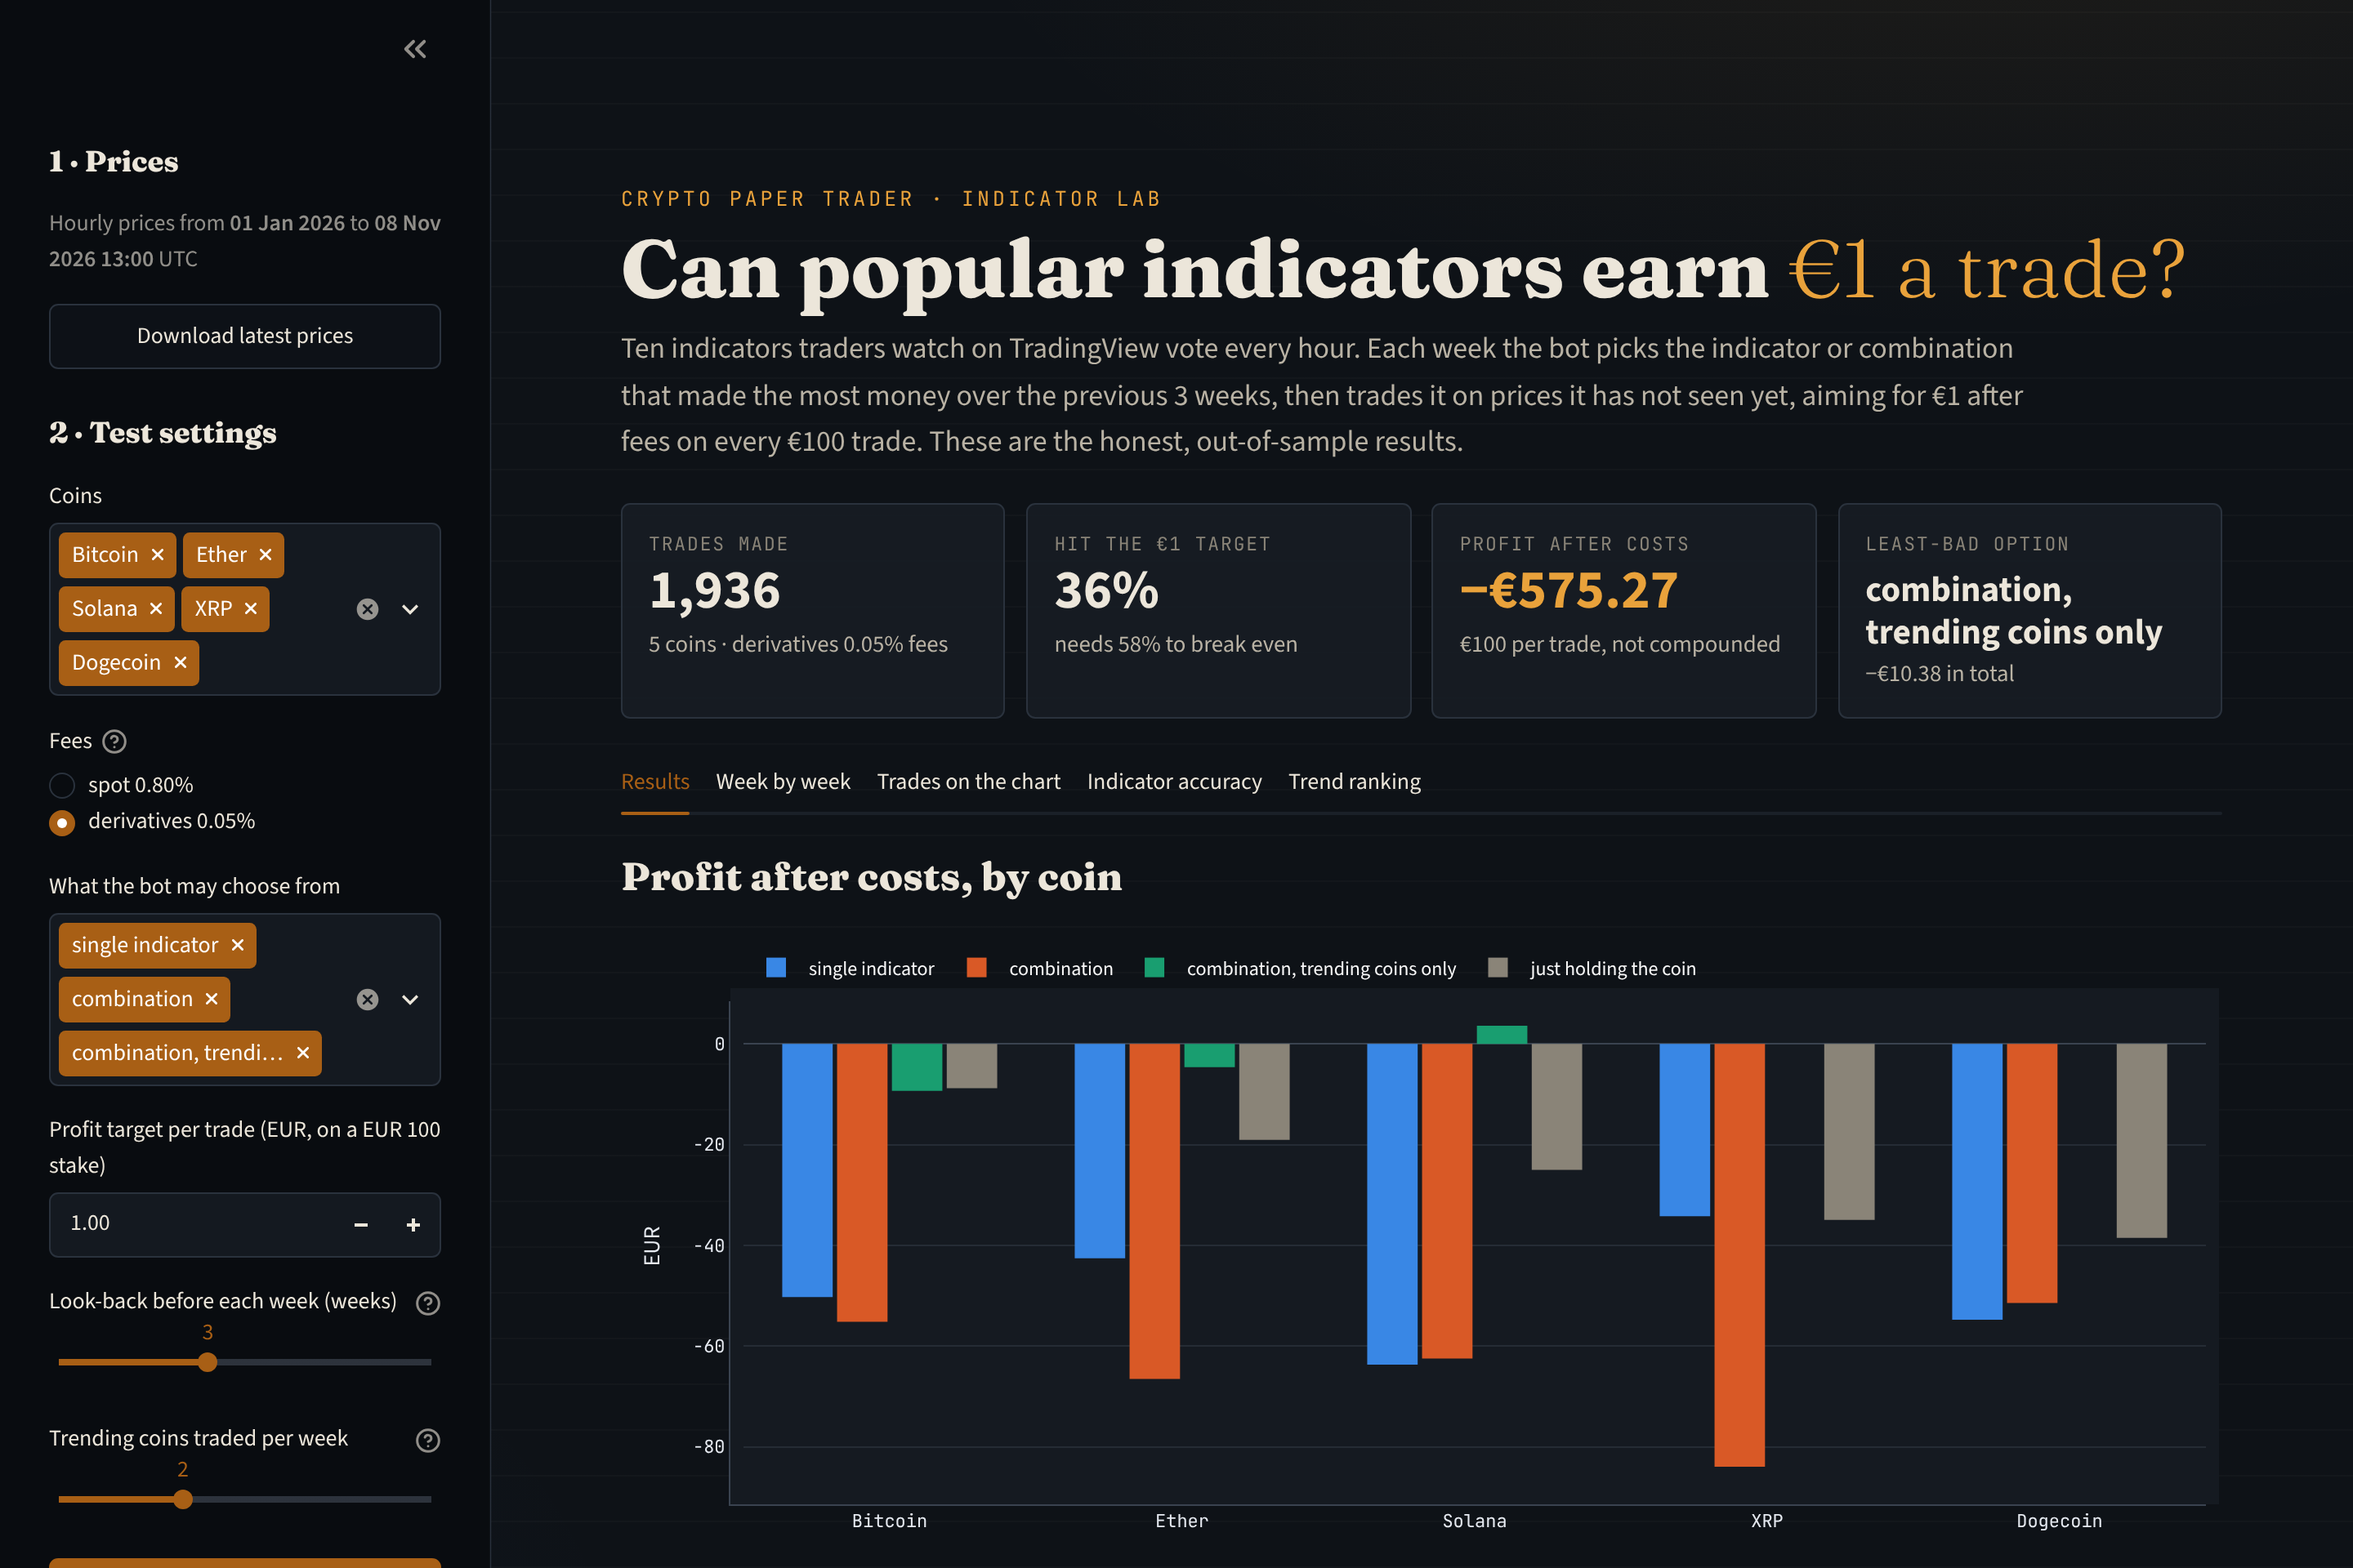
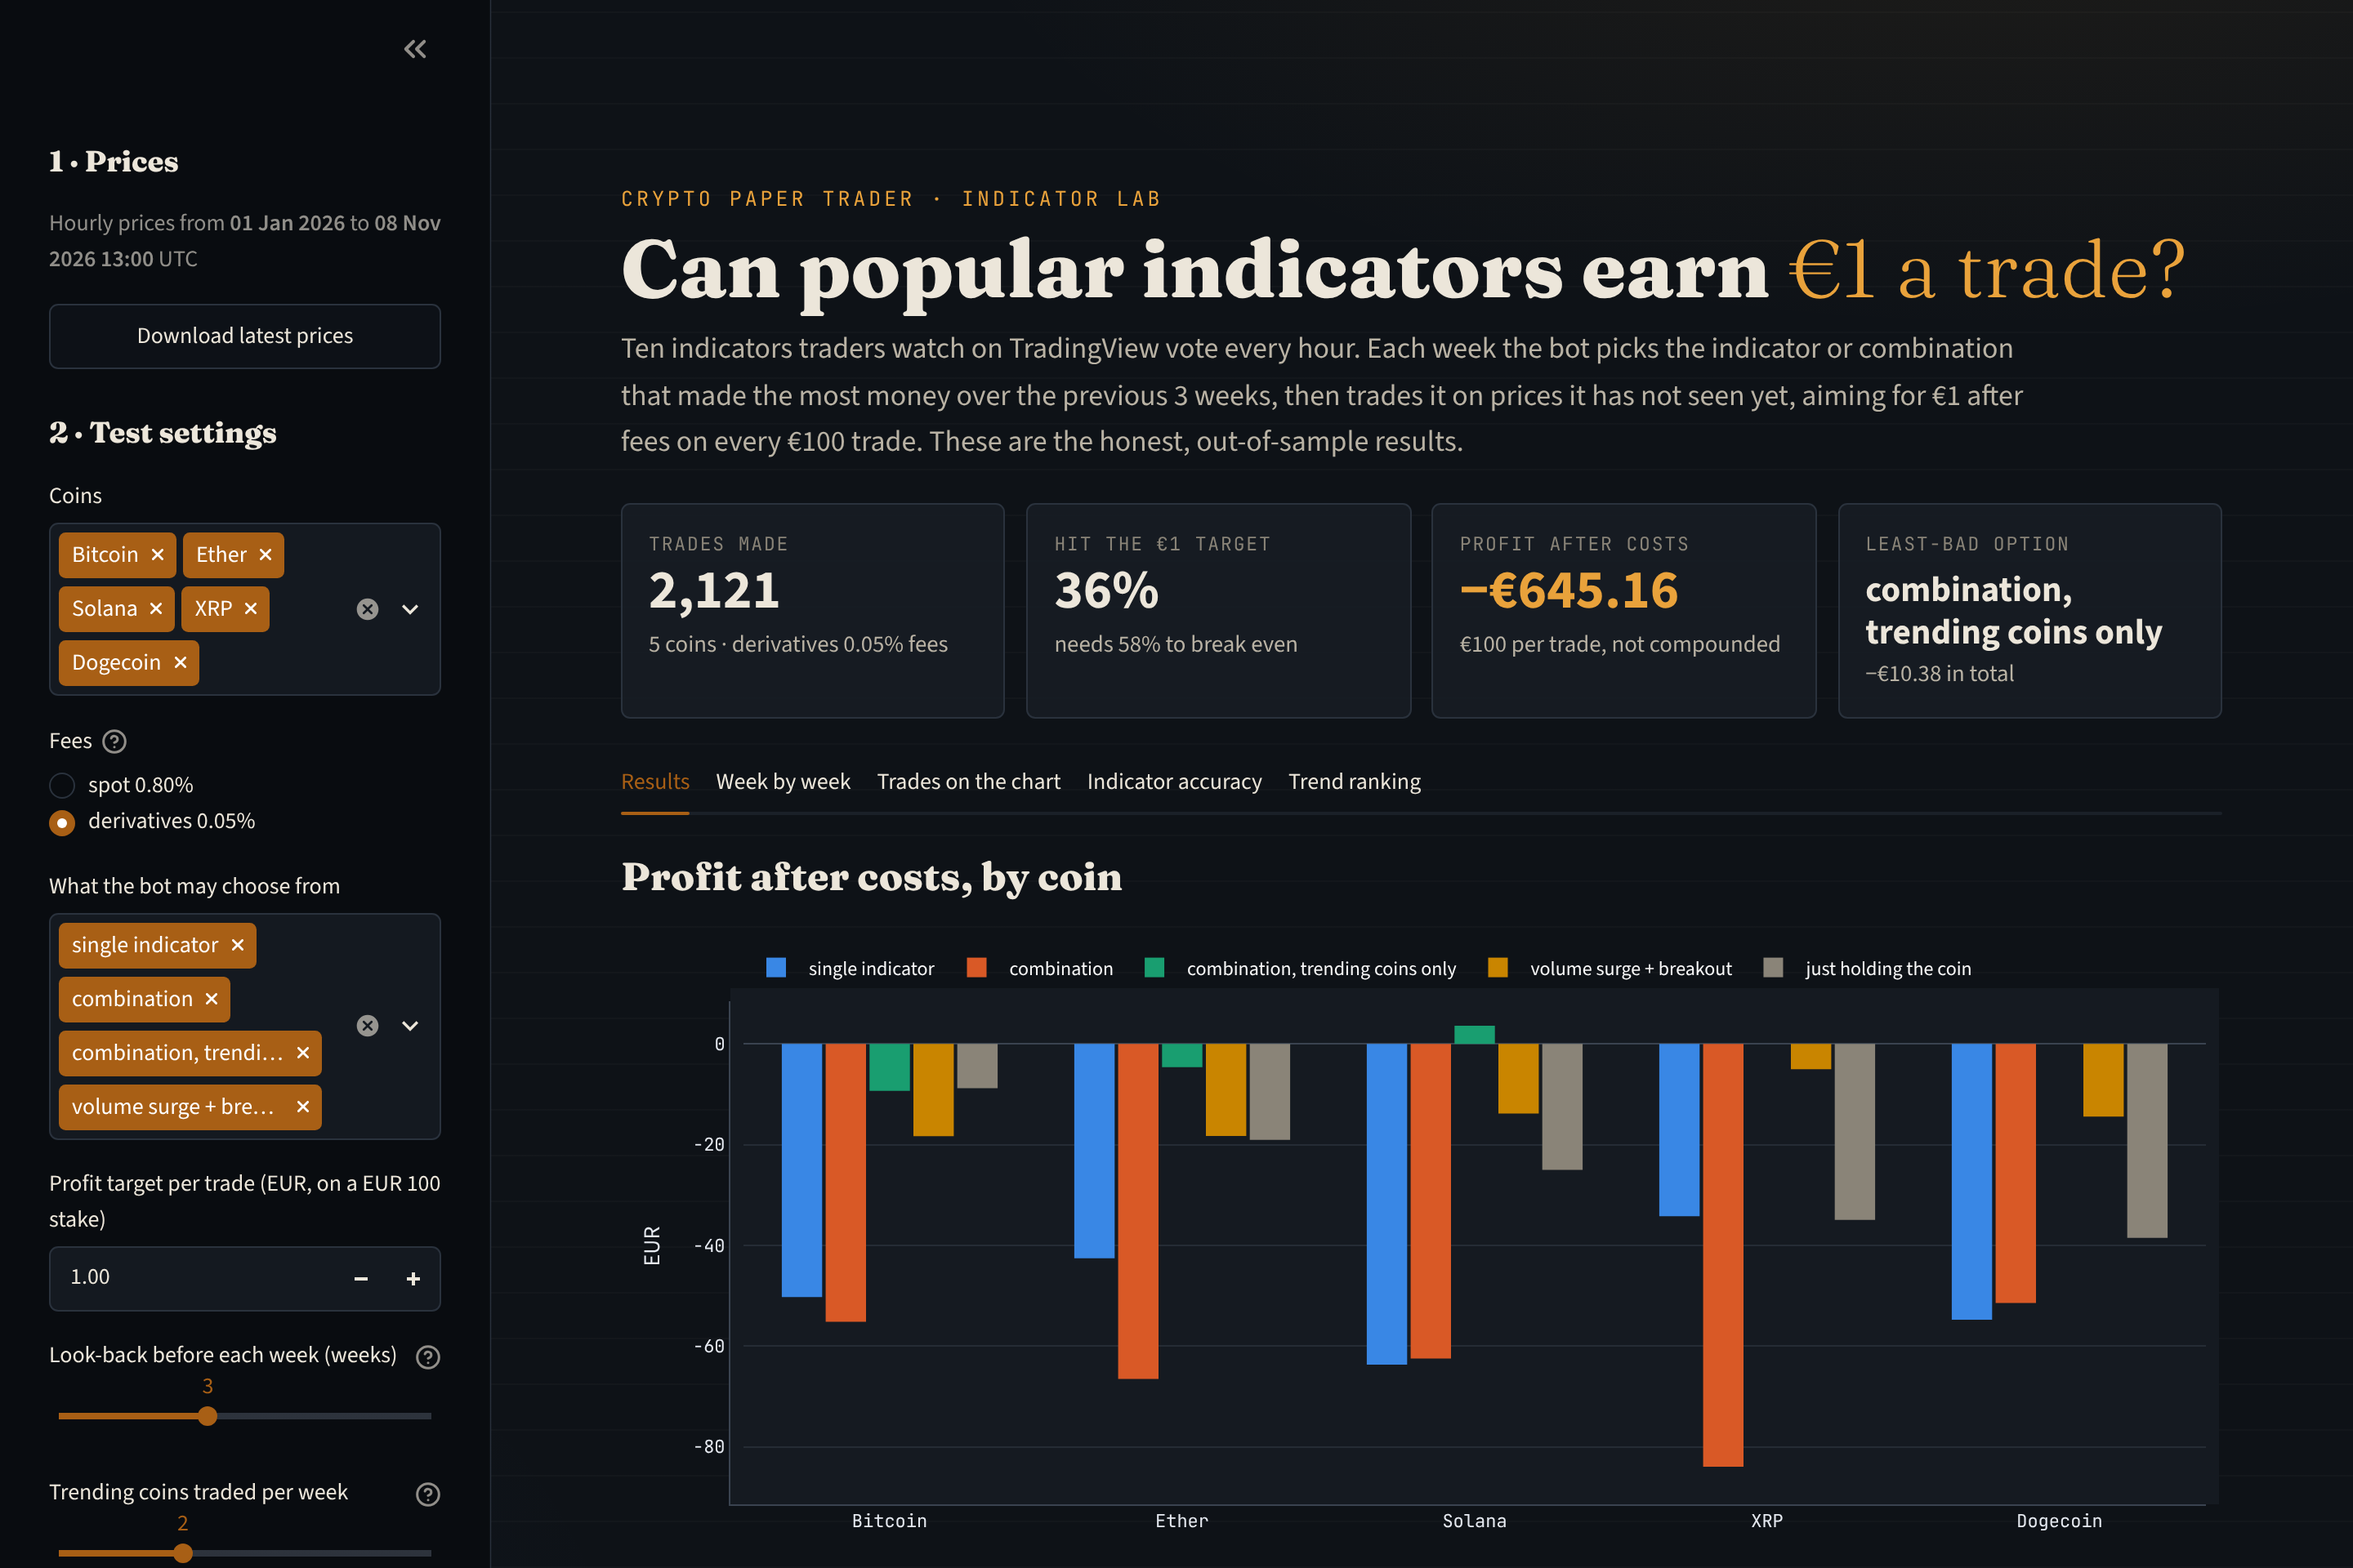
docs(readme): add breakout findings and refresh screenshot

diff --git a/README.md b/README.md
@@ -17,14 +17,14 @@
 1. **No indicator, alone or combined, could make €1 per trade.** Across 10 popular indicators and 86 combinations, tested week by week on prices the bot had not yet seen, every coin lost money at both fee levels. At derivatives fees, combinations lost €319 over 948 trades (€100 stake each); single indicators lost €245 over 869 trades.
 2. **The indicators are close to coin flips.** When an indicator pointed up or down, the price moved that way over the next 24 hours only 44–51% of the time for trend indicators (EMA, MACD, Supertrend, Ichimoku, ADX). The best was Bollinger Bands at 54% on XRP and Dogecoin.
 3. **A €1 target needs a high hit rate, because losing trades pay fees too.** At derivatives fees the bot must hit its target 58% of the time to break even (81% at spot fees); it managed 29–39%.
-4. **Combining indicators did not help.** Combinations lost about as much per trade as single indicators (€0.30–€0.37 against €0.25–€0.32), and traded more often. Even the best combination picked in hindsight lost money on 4 of 5 coins.
-5. **Trading only strongly trending coins cut the losses but did not make money.** Ranking coins each week by how straight their price path was (efficiency ratio) and trading only the top 2, in their trend's direction, lost €10.38 over 119 trades at derivatives fees (−€0.09 a trade, against −€0.34 for all coins). The hit rate rose from 36% to 47%, still short of the 58% needed, and the bot traded in only 10 of 210 coin-weeks, so the sample is small.
-6. **Scalping cannot beat spot fees.** One buy and one sell costs 1.6%, but the average one-minute Bitcoin move was 0.01%. Over 21 scalping trades, €100 became €70.76, with fees taking €28.52 of the €29.24 lost.
+4. **Trading only strongly trending coins cut the losses but did not make money.** Ranking coins each week by how straight their price path was (efficiency ratio) and trading only the top 2, in their trend's direction, lost €10.38 over 119 trades at derivatives fees (−€0.09 a trade, against −€0.34 for all coins). The hit rate rose from 36% to 47%, still short of the 58% needed, and the bot traded in only 10 of 210 coin-weeks, so the sample is small.
+5. **Waiting for a breakout after a volume surge did not work either.** A busy day did come before bigger moves (7.3% the next week against 5.6% otherwise), but the breakouts mostly reversed: 6 hours after a surge breakout the price was still going the same way only 37–47% of the time. Following them lost €69.89 over 185 trades at derivatives fees (−€0.38 a trade).
 
 ### Further detail
 
+- **Combining indicators did not help.** Combinations lost about as much per trade as single indicators (€0.30–€0.37 against €0.25–€0.32), and traded more often. Even the best combination picked in hindsight lost money on 4 of 5 coins.
+- **Scalping cannot beat spot fees.** One buy and one sell costs 1.6%, but the average one-minute Bitcoin move was 0.01%. Over 21 scalping trades, €100 became €70.76, with fees taking €28.52 of the €29.24 lost.
 - **Support/resistance breakouts worked best on trending coins:** the Donchian channel called the next 24 hours correctly 53.5% of the time in trending weeks, against 48.6% overall. Every other indicator stayed below 52%.
-
 - **At spot fees the lab's bot mostly refused to trade**, as designed: it traded in only 10 of 210 coin-weeks, because no combination had made money in the previous 3 weeks. The trades it did make still lost.
 - **The 15-minute trend strategy beat buy-and-hold at derivatives fees in one falling week (1–8 November)**, mainly through short trades. The 10-month hourly test above suggests this does not hold up over time.
 - **Holding was better than trading in 2026:** all five coins fell, but holding lost €9–€39 per €100, less than the indicator strategies lost on most coins.
@@ -66,7 +66,8 @@
 3. **€1 target:** every trade risks €100 and closes at the price that gives exactly €1 after fees and slippage, at a stop the same price distance away, or after 48 hours.
 4. **Walk-forward test:** each week the bot looks back 3 weeks, picks the combination that made the most there (at least 5 trades), and trades it for the next week. If nothing made money, it sits the week out.
 5. **Reachability check:** a trade is skipped if the market is too calm for the €1 move to be likely within 2 days.
-6. **Trending coins only (optional pool):** at the start of each week, coins are ranked by efficiency ratio over the previous week (net price change ÷ total distance travelled; 1 = a straight line, 0 = zig-zag). Only the top 2, with a ratio of at least 0.10, may trade that week, and only in the direction of their trend. A look-back week that touches a hole in the data counts as no trend.
+6. **Volume surge + breakout (optional pool):** a trade is allowed only when the last 24 hours' volume is at least 1.25, 1.5 or 2 times the average day of the past week, and the price closes above its 12, 24 or 48-hour high (long) or below the matching low (short). The walk-forward test picks the best of these 9 variants each week.
+7. **Trending coins only (optional pool):** at the start of each week, coins are ranked by efficiency ratio over the previous week (net price change ÷ total distance travelled; 1 = a straight line, 0 = zig-zag). Only the top 2, with a ratio of at least 0.10, may trade that week, and only in the direction of their trend. A look-back week that touches a hole in the data counts as no trend.
 
 | Output | Contents |
 |---|---|
